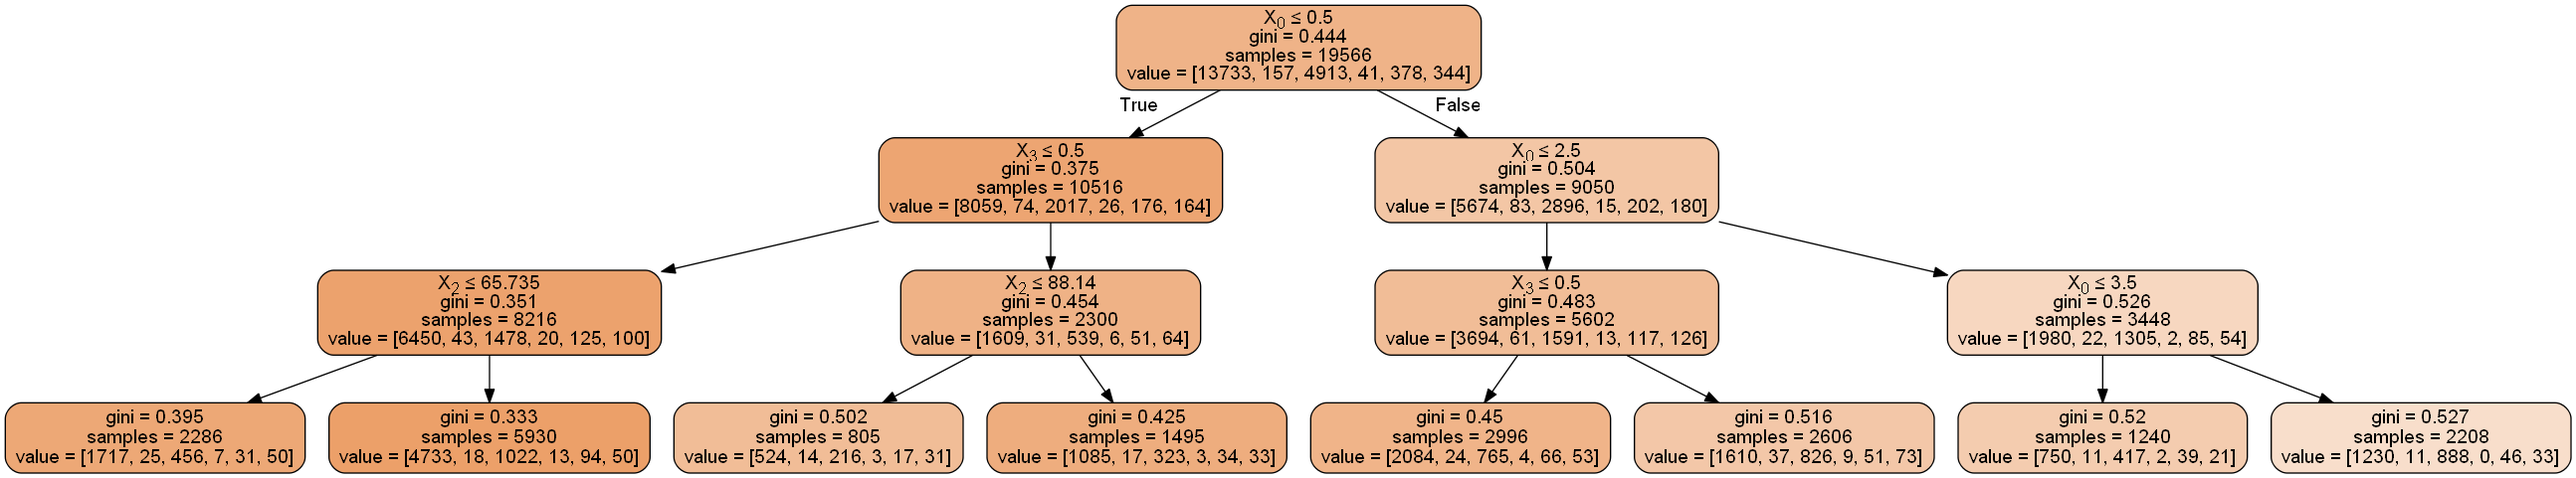
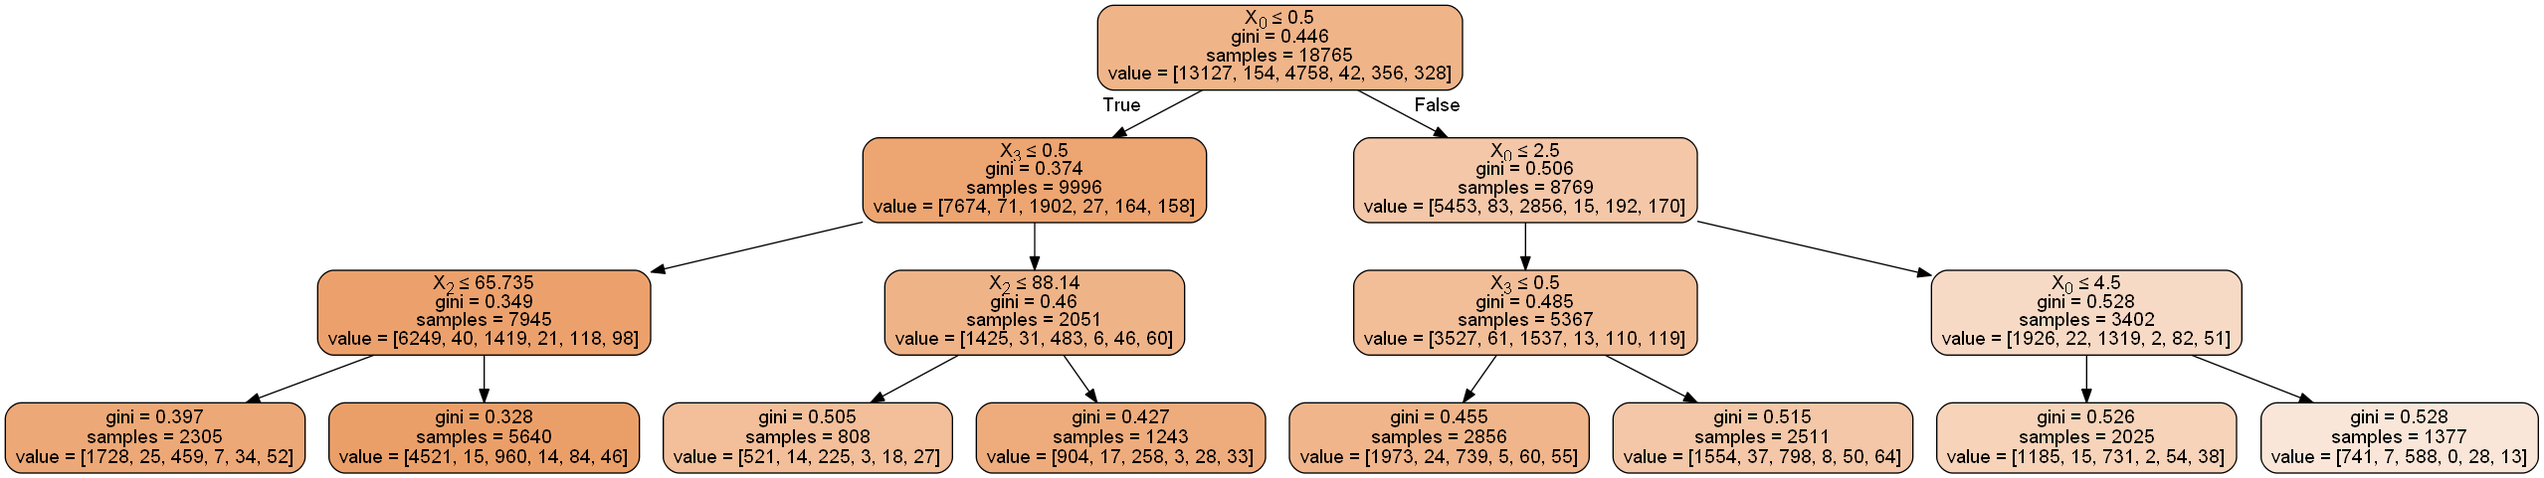
refactored traning code added bagging and tree classifiers

diff --git a/lab2/src/main.py b/lab2/src/main.py
@@ -5,13 +5,16 @@ import random
 
 from CampaignDetails import CampaignDetails
 import Constants
-
+import matplotlib.pyplot as plt
 import pandas as pd
 from sklearn.tree import DecisionTreeClassifier, export_graphviz
 import numpy as np
 from sklearn.utils import shuffle
 from sklearn.metrics import accuracy_score
-from sklearn.externals.six import StringIO  
+from sklearn.externals.six import StringIO
+from sklearn.ensemble import BaggingClassifier  
+from sklearn.neighbors import KNeighborsClassifier
+from sklearn.ensemble import RandomForestClassifier
 import pydot 
 
 def SplitDataByProportion (data, training_proportion, test_proportion):
@@ -29,28 +32,81 @@ def SplitDataByProportion (data, training_proportion, test_proportion):
     testData = data[int(trainingCount):int(totalLength)]
     return trainingData, testData
 
+def VisualizeClassifier(model, X, y, ax=None, cmap='rainbow'):
+    ax = ax or plt.gca()
+    
+    # Plot the training points
+    ax.scatter(X[:, 0], X[:, 1], c=y, s=30, cmap=cmap,
+               clim=(y.min(), y.max()), zorder=3)
+    ax.axis('tight')
+    ax.axis('off')
+    xlim = ax.get_xlim()
+    ylim = ax.get_ylim()
+    
+    # fit the estimator
+    model.fit(X, y)
+    xx, yy = np.meshgrid(np.linspace(*xlim, num=200),
+                         np.linspace(*ylim, num=200))
+    Z = model.predict(np.c_[xx.ravel(), yy.ravel()]).reshape(xx.shape)
+
+    # Create a color plot with the results
+    n_classes = len(np.unique(y))
+    contours = ax.contourf(xx, yy, Z, alpha=0.3,
+                           levels=np.arange(n_classes + 1) - 0.5,
+                           cmap=cmap, clim=(y.min(), y.max()),
+                           zorder=1)
+
+    ax.set(xlim=xlim, ylim=ylim)
+
+def RunTraining(classifier, columns, resultCol, trainingData, testdata, imgFile=""):
+    training_data_projection = trainingData[columns].values
+    target_data_projection = trainingData[resultCol].values
+
+    test_data_projection = testdata[columns].values
+    actual_result_data = testdata[resultCol].values
+
+    classifier.fit(training_data_projection, target_data_projection)
+    results = classifier.predict(test_data_projection)
+
+    accuracy = accuracy_score(actual_result_data, results)*100
+    if imgFile != "":
+        dot_data = StringIO()
+        export_graphviz(classifier, out_file=dot_data, filled=True, rounded=True,  special_characters=True)
+        graph = pydot.graph_from_dot_data(dot_data.getvalue())
+        graph[0].write_png(imgFile)
+    
+    return accuracy 
+
+
+def RunDecisionTree(columns, resultCol, trainingData, testdata, imgFile):    
+    clf_gini = DecisionTreeClassifier(criterion = "entropy", max_depth=5, min_samples_leaf=5)
+    return RunTraining(clf_gini, columns, resultCol, trainingData, testdata, imgFile)
+
+def RunDecisionTreeWithBagging(columns, resultCol, trainingData, testdata):    
+    bagging = BaggingClassifier(KNeighborsClassifier(),max_samples=0.5, max_features=0.5)
+    return RunTraining(bagging, columns, resultCol, trainingData, testdata)
+
+def RunDecisionTreeWithForest(columns, resultCol, trainingData, testdata):    
+    bagging = RandomForestClassifier(n_estimators=10)
+    return RunTraining(bagging, columns, resultCol, trainingData, testdata)
+
 def __main__():  
     df = pd.read_csv (Constants.DATA_FILE)
     df = shuffle(df)
     training_data, test_data = SplitDataByProportion(df, 90, 10)
+    run1 = RunDecisionTree(['RESPONDED',  'WEB', 'AVRG', 'CC_CARD'], 'RESP', training_data, test_data, '4features.png')
+    run2 = RunDecisionTree(['RESPONDED', 'WEB', 'AVRG',  'CC_CARD', 'derived_RESPONSE_TO_PROMOTION', 'derived_AVERAGE_SPENT'], 'RESP', training_data, test_data, '4features+2derived.png')
+    run3 = RunDecisionTree(["HHKEY", "ZIP_CODE", "REC", "FRE", "MON", "CC_CARD", "AVRG", "PSWEATERS", "PKNIT_TOPS", "PKNIT_DRES","PBLOUSES","PJACKETS","PCAR_PNTS","PCAS_PNTS","PSHIRTS","PDRESSES","PSUITS","POUTERWEAR","PJEWELRY","PFASHION","PLEGWEAR","PCOLLSPND","AMSPEND","PSSPEND","CCSPEND","AXSPEND","TMONSPEND","OMONSPEND","SMONSPEND","PREVPD","GMP","PROMOS","DAYS","FREDAYS","MARKDOWN","CLASSES","COUPONS","STYLES","STORES","STORELOY","WEB","MAILED","RESPONDED","RESPONSERATE","HI","LTFREDAY","CLUSTYPE","PERCRET",'derived_RESPONSE_TO_PROMOTION','derived_AVERAGE_SPENT'], 'PC_CALC20', training_data, test_data, 'allFeatures.png')
+    run4_1 = RunDecisionTreeWithBagging(['RESPONDED', 'WEB', 'AVRG', 'CC_CARD'], 'RESP', training_data, test_data)
+    run4_2 = RunDecisionTreeWithForest(['RESPONDED', 'WEB', 'AVRG', 'CC_CARD'], 'RESP', training_data, test_data)
     
-    training_data_projection = training_data[['RESPONDED', 'WEB', 'AVRG', 'CC_CARD']]
-    target_data_projection = training_data['PC_CALC20']
-
-    test_data_projection = test_data[['RESPONDED', 'WEB', 'AVRG', 'CC_CARD']]
-    actual_result_data = test_data['PC_CALC20']
-
-    clf_gini = DecisionTreeClassifier(criterion = "gini", max_depth=3, min_samples_leaf=5)
-    clf_gini.fit(training_data_projection, target_data_projection)
-    results = clf_gini.predict(test_data_projection)
-
-    accuracy = accuracy_score(actual_result_data, results)*100
-    print(accuracy)
-    dot_data = StringIO()
-    export_graphviz(clf_gini, out_file=dot_data, filled=True, rounded=True,  special_characters=True)
-    graph = pydot.graph_from_dot_data(dot_data.getvalue())
-    graph[0].write_png("iris.png") 
+    print(run1)
+    print(run2)
+    print(run3)
+    print(run4_1)
+    print(run4_2)
 
 # Lab2 Report link: https://docs.google.com/document/d/1SWtKXVoKqoz7XgTmn5he2f8zm2Z3e508Rk_c8y3y82M/edit?usp=sharing
-
+# TODO: balance target value RESP
+# TODO: visualize trees with bagging and forest
 __main__()

diff --git a/lab2/src/Constants.py b/lab2/src/Constants.py
@@ -1,3 +1,3 @@
 import os.path
 
-DATA_FILE = os.path.abspath(os.path.join(os.path.dirname( __file__ ), '..', 'Clothing_Store.txt'))
+DATA_FILE = os.path.abspath(os.path.join(os.path.dirname( __file__ ), '..', 'Clothing_Store_processed.txt'))
